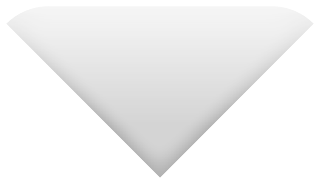
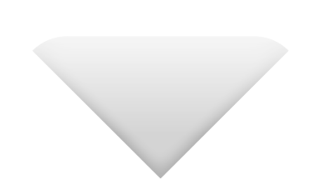
Move TouchHoldBody transform logic out from DHO

diff --git a/osu.Game.Rulesets.Sentakki/Skinning/Default/TouchHold/TouchHoldBody.cs b/osu.Game.Rulesets.Sentakki/Skinning/Default/TouchHold/TouchHoldBody.cs
@@ -26,7 +26,9 @@ public partial class TouchHoldBody : CircularContainer, IHasCopyableVisualState
         InternalChildren =
         [
             ProgressPiece = new TouchHoldProgressPiece(),
-            CentrePiece = new TouchHoldCentrePiece(),
+            CentrePiece = new TouchHoldCentrePiece(){
+                Size = new Vector2(130)
+            },
             // We swap the centre piece with this other drawable to make it look better with the progress bar
             // Otherwise we'd need to add a thick border in between the centre and the progress
             CompletedCentre = new TouchHoldCompletedCentre(),
@@ -51,6 +53,17 @@ public partial class TouchHoldBody : CircularContainer, IHasCopyableVisualState
         if (hitobject != drawableTouchHold)
             return;
 
+        double initialLifetimeOffset = drawableTouchHold.HitObject.StartTime - drawableTouchHold.AnimationStartTime.Value;
+
+        double animTime = initialLifetimeOffset * 0.8;
+        double fadeTime = initialLifetimeOffset * 0.2;
+
+        using (BeginAbsoluteSequence(drawableTouchHold.AnimationStartTime.Value))
+        {
+            this.FadeInFromZero(fadeTime);
+            CentrePiece.Delay(fadeTime).ResizeTo(90, animTime, Easing.InCirc).ScaleTo(8 / 9f, animTime, Easing.InCirc);
+        }
+
         using (BeginAbsoluteSequence(drawableTouchHold.HitObject.StartTime))
         {
             ProgressPiece.TransformBindableTo(ProgressPiece.ProgressBindable, 1, drawableTouchHold.HitObject.Duration);
@@ -63,6 +76,9 @@ public partial class TouchHoldBody : CircularContainer, IHasCopyableVisualState
     {
         if (other is not TouchHoldBody thb)
             return;
+
+        thb.CentrePiece.Size = CentrePiece.Size;
+        thb.Alpha = Alpha;
 
         thb.ProgressPiece.ProgressBindable.Value = ProgressPiece.ProgressBindable.Value;
         thb.CentrePiece.Alpha = CentrePiece.Alpha;

diff --git a/osu.Game.Rulesets.Sentakki/Skinning/Legacy/TouchHold/LegacyTouchHoldBody.cs b/osu.Game.Rulesets.Sentakki/Skinning/Legacy/TouchHold/LegacyTouchHoldBody.cs
@@ -17,6 +17,9 @@ namespace osu.Game.Rulesets.Sentakki.Skinning.Legacy.TouchHold;
 public partial class LegacyTouchHoldBody : CompositeDrawable, IHasCopyableVisualState
 {
     public LegacyTouchHoldProgress ProgressPiece = null!;
+
+    private Container mainPiece = null!;
+
     private Container trianglePieces = null!;
 
     public LegacyTouchHoldBody()
@@ -37,11 +40,11 @@ public partial class LegacyTouchHoldBody : CompositeDrawable, IHasCopyableVisual
     {
         InternalChildren = [
             ProgressPiece = new LegacyTouchHoldProgress(){
-                Size = new Vector2(130),
+                RelativeSizeAxes = Axes.Both
             },
-            new Container
+            mainPiece = new Container
             {
-                RelativeSizeAxes = Axes.Both,
+                Size = new Vector2(130),
                 Anchor = Anchor.Centre,
                 Origin = Anchor.Centre,
                 Children = [
@@ -161,6 +164,17 @@ public partial class LegacyTouchHoldBody : CompositeDrawable, IHasCopyableVisual
     {
         if (hitobject != drawableTouchHold)
             return;
+
+        double initialLifetimeOffset = drawableTouchHold.HitObject.StartTime - drawableTouchHold.AnimationStartTime.Value;
+
+        double animTime = initialLifetimeOffset * 0.8;
+        double fadeTime = initialLifetimeOffset * 0.2;
+
+        using (BeginAbsoluteSequence(drawableTouchHold.AnimationStartTime.Value))
+        {
+            this.FadeInFromZero(fadeTime);
+            mainPiece.Delay(fadeTime).ResizeTo(90, animTime, Easing.InCirc);
+        }
 
         using (BeginAbsoluteSequence(drawableTouchHold.HitObject.StartTime))
         {

diff --git a/osu.Game.Rulesets.Sentakki/Objects/Drawables/DrawableTouchHold.cs b/osu.Game.Rulesets.Sentakki/Objects/Drawables/DrawableTouchHold.cs
@@ -115,13 +115,6 @@ public partial class DrawableTouchHold : DrawableSentakkiHitObject
     protected override void UpdateInitialTransforms()
     {
         base.UpdateInitialTransforms();
-        double animTime = AnimationDuration.Value * 0.8;
-        double fadeTime = AnimationDuration.Value * 0.2;
-
-        TouchHoldBody.FadeInFromZero(fadeTime).ScaleTo(1);
-
-        using (BeginDelayedSequence(fadeTime))
-            TouchHoldBody.ResizeTo(80, animTime, Easing.InCirc);
     }
 
     [Cached]

diff --git a/osu.Game.Rulesets.Sentakki/Skinning/Default/TouchHold/TouchHoldCentrePiece.cs b/osu.Game.Rulesets.Sentakki/Skinning/Default/TouchHold/TouchHoldCentrePiece.cs
@@ -22,9 +22,8 @@ public partial class TouchHoldCentrePiece : CompositeDrawable
     {
         Origin = Anchor.Centre;
         Anchor = Anchor.Centre;
-        RelativeSizeAxes = Axes.Both;
+        //RelativeSizeAxes = Axes.Both;
         Rotation = 45;
-        Scale = new Vector2(80 / 90f);
 
         InternalChildren =
         [
